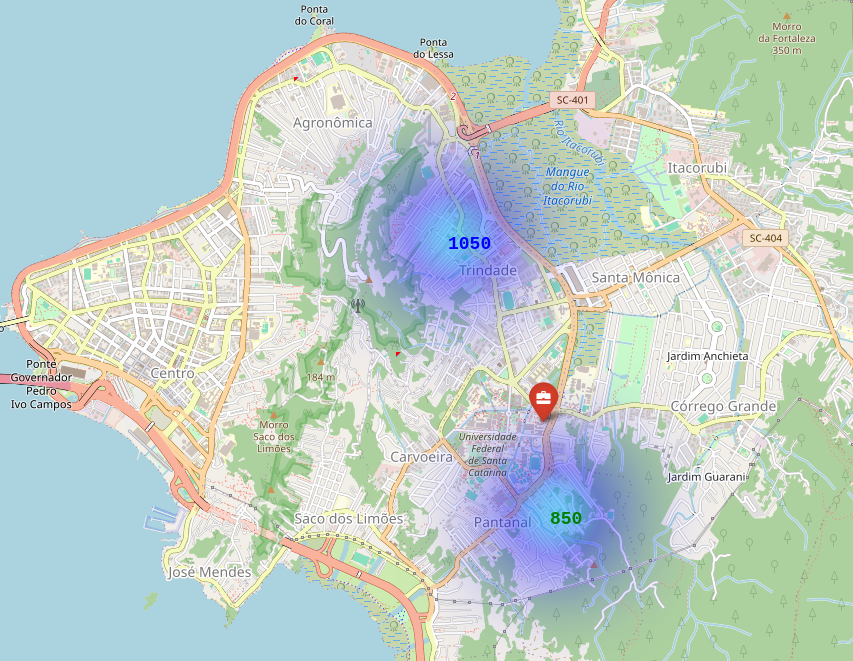
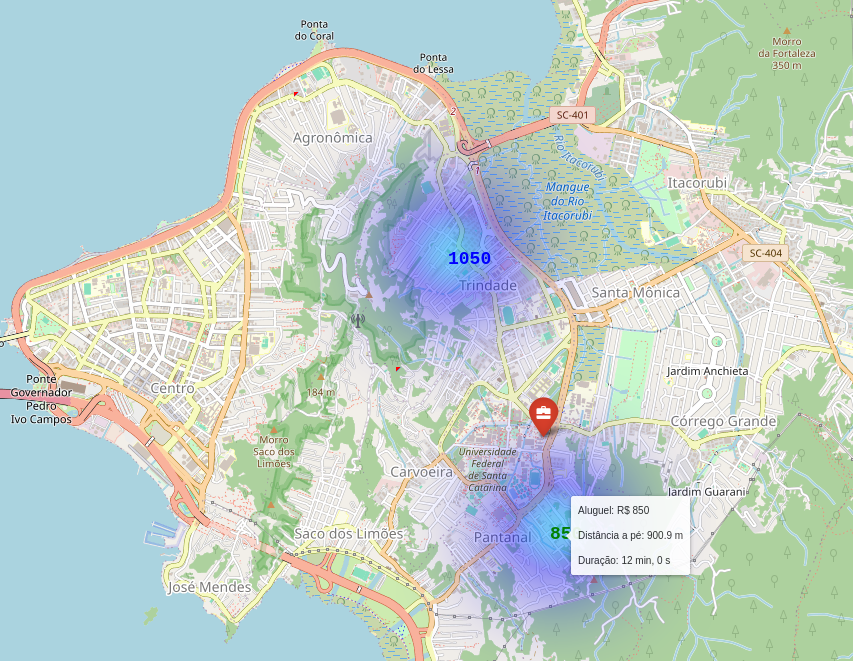
Updated description

diff --git a/readme.md b/readme.md
@@ -1,3 +1,10 @@
+# What is it
+An analyzer to find the best place to live, according the the place of work.
+It shows information such as:
+- Rent price
+- Walking distance
+- Walking time
+
 # How to use
 ## Addresses
 Place addresses in file `inputs/addresses.csv` inside this subdirectory with the following format:
